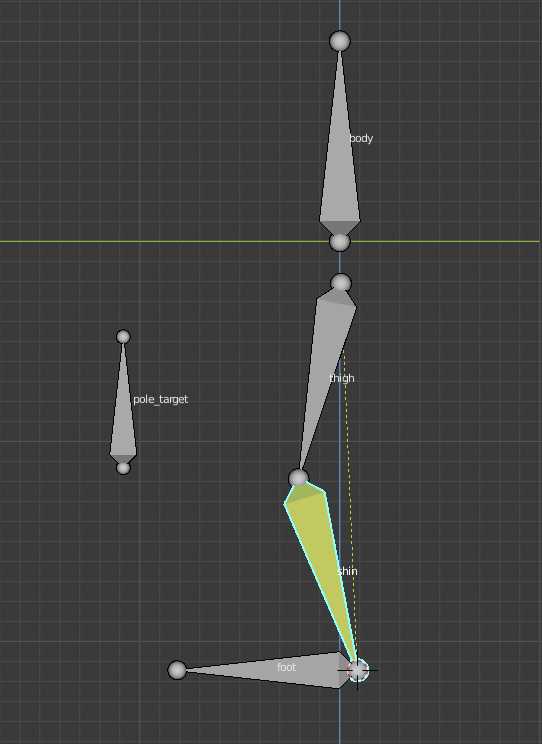
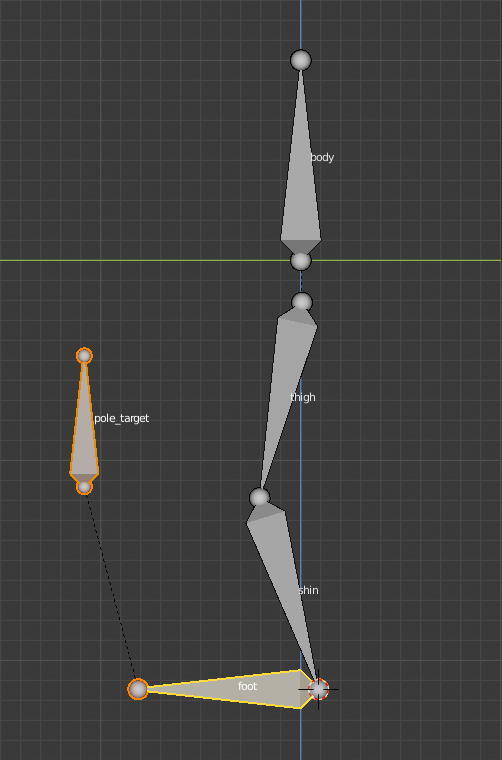
pole child of foot

diff --git a/Chapters/Chapter4.tex b/Chapters/Chapter4.tex
@@ -110,6 +110,8 @@ Le gambe possono quindi essere controllate interamente attraverso la cinematica 
 Siccome questo metodo è sotto-vincolato (i.e. esistono più soluzioni), resta da specificare un vincolo aggiuntivo, relativo all'articolazione intermedia (il ginocchio).
 
 Per fare ciò, è possibile aggiungere un osso, figlio del piede, che servirà per direzionare il ginocchio.
+Il motivo per cui, quest'ultimo osso, viene solitamente definito come figlio del piede, è per il semplice motivo che piede e ginocchio puntano solitamente nella stessa direzione. In questo modo il ginocchio eredita la rotazione del piede, semplificando ulteriormente il lavoro dellàanimatore.
+
 In blender questo osso viene chiamato \emph{Pole Target} \cite{blendDoc}, ed il suo funzionamento è molto semplice: tracciando una linea immaginaria dalla base della gamba all'end-effector, viene individuato l'asse che collega i due poli della sequenza delle ossa che costituisce la cinematica inversa.
 In Figura \ref{fig:leg} questo asse è rappresentato da una linea tratteggiata gialla.
 Ruotando l'intera sequenza di ossa intorno a questo asse, si ottengono infinite soluzioni ammissibili, in cui l'articolazione del ginocchio è l'unica a cambiare posizione, descrivendo una sorta di "equatore" intorno all'asse.
